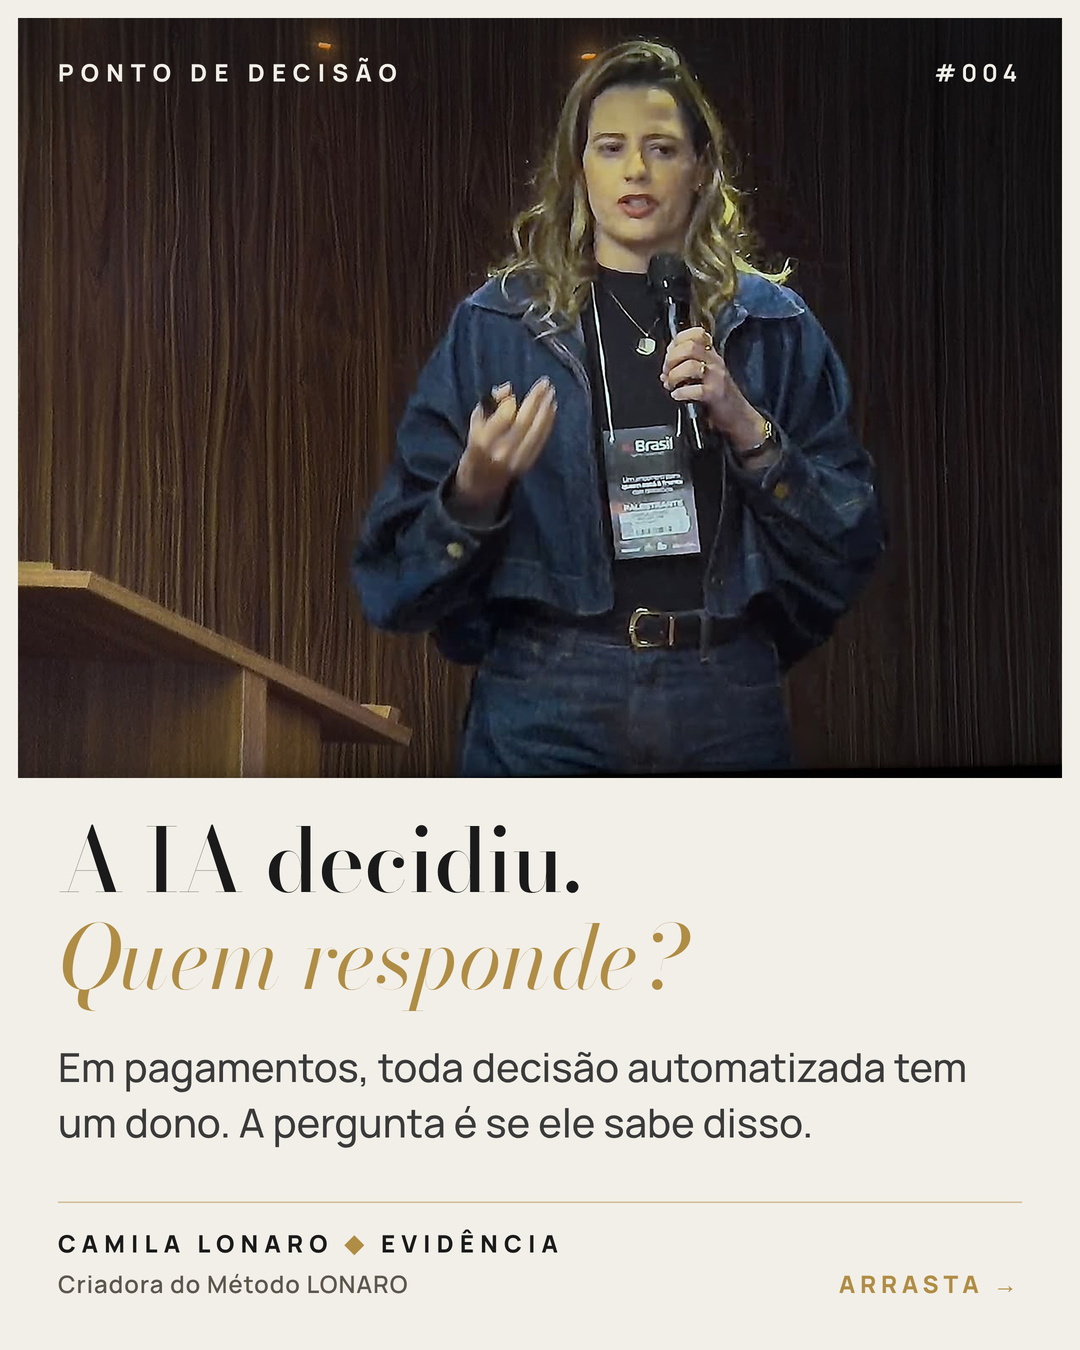
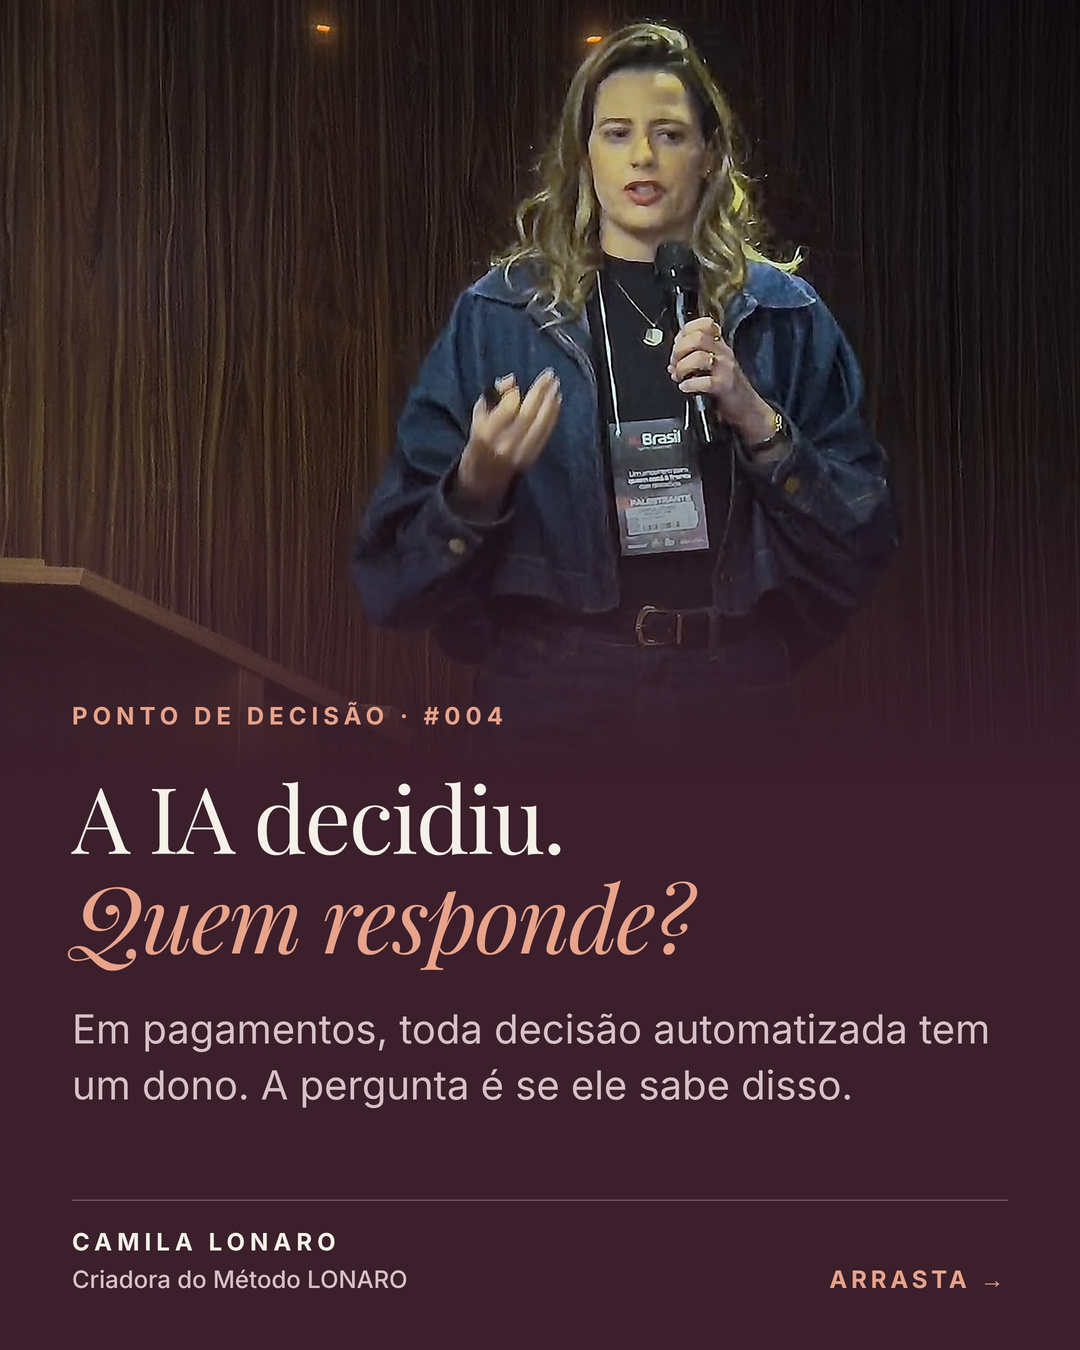
Redo carousel 004 in the wine and ivory brand palette
Follow the tones of the inovabra 2026 talk: wine, ivory, coral and
peach with Playfair Display and Inter. Record the palette in the
images README and add the matching template.

Claude-Session: https://claude.ai/code/session_0187BAq4fKzDRMCCEJqtPjF1

diff --git a/images/_templates/marca-vinho-marfim.html b/images/_templates/marca-vinho-marfim.html
@@ -1,0 +1,30 @@
+<!doctype html><html><head><meta charset="utf-8">
+<link rel="stylesheet" href="https://fonts.googleapis.com/css2?family=Playfair+Display:ital,wght@0,400..900;1,400..900&family=Inter:wght@400..800&display=swap">
+<style>
+:root{--wine:#3B1F2B;--ivory:#F5F1E9;--coral:#A95443;--peach:#E8A38B}
+.dark{--paper:var(--wine);--ink:var(--ivory);--accent:var(--peach);--secondary:#D7C2C9;--line:#72525F}
+.light{--paper:var(--ivory);--ink:var(--wine);--accent:var(--coral);--secondary:#705760;--line:#D9CAC8}
+*{margin:0;padding:0;box-sizing:border-box}
+html,body{width:1080px;height:1350px;overflow:hidden}
+body{position:relative;font-family:"Inter",sans-serif;background:var(--paper);color:var(--ink);-webkit-font-smoothing:antialiased}
+.ph{position:absolute;left:0;right:0;top:0;height:__PH__px;background-image:url("__IMG__");background-size:cover;background-position:__POS__}
+.dark .ph::after{content:"";position:absolute;left:0;right:0;bottom:-1px;height:46%;background:linear-gradient(180deg,rgba(59,31,43,0) 0%,rgba(59,31,43,.65) 62%,#3B1F2B 100%)}
+.cap{position:absolute;left:72px;top:calc(__PH__px + 26px);font-size:24px;letter-spacing:.16em;text-transform:uppercase;font-weight:600;color:var(--secondary)}
+.card{position:absolute;left:72px;right:72px;top:__CT__px}
+.eyebrow{font-size:24px;font-weight:700;letter-spacing:.21em;line-height:1.35;text-transform:uppercase;color:var(--accent);margin-bottom:34px}
+h1{font-family:"Playfair Display",serif;font-weight:400;font-size:__H1__;line-height:1.08;letter-spacing:-.025em;text-wrap:balance}
+h1 em{font-style:italic;font-weight:400;color:var(--accent)}
+.sub{margin-top:36px;font-size:40px;line-height:1.4;color:var(--secondary);font-weight:400;text-wrap:pretty}
+.list{margin-top:48px;list-style:none;counter-reset:q}
+.list li{counter-increment:q;display:flex;gap:34px;align-items:baseline;font-size:42px;line-height:1.25;font-weight:500;padding:22px 0;border-top:1.5px solid var(--line)}
+.list li:last-child{border-bottom:1.5px solid var(--line)}
+.list li::before{content:counter(q,decimal-leading-zero);font-family:"Playfair Display",serif;font-style:italic;font-size:46px;color:var(--accent);min-width:62px}
+.foot{position:absolute;left:72px;right:72px;bottom:56px;display:flex;justify-content:space-between;align-items:flex-end;border-top:1.5px solid var(--line);padding-top:26px}
+.who{font-size:24px;letter-spacing:.21em;text-transform:uppercase;font-weight:700;color:var(--ink)}
+.cred{font-size:24px;color:var(--secondary);margin-top:8px;font-weight:500}
+.right{font-size:24px;letter-spacing:.16em;text-transform:uppercase;color:var(--accent);font-weight:700;white-space:nowrap}
+</style></head><body class="__MODE__">
+__BG__
+<div class="card">__CARD__</div>
+<div class="foot"><div><div class="who">Camila Lonaro</div><div class="cred">Criadora do Método LONARO</div></div><div class="right">__RIGHT__</div></div>
+</body></html>

diff --git a/images/README.md b/images/README.md
@@ -1,5 +1,22 @@
 # Artes do Instagram @camilalonaro
 
+## Marca (oficial desde 27/11/2026)
+
+Segue os tons da apresentação inovabra 2026. É a referência para todo post novo.
+
+| Modo | Fundo | Texto | Destaque (itálico) | Secundário | Linhas |
+|---|---|---|---|---|---|
+| **Escuro** | vinho `#3B1F2B` | marfim `#F5F1E9` | pêssego `#E8A38B` | `#D7C2C9` | `#72525F` |
+| **Claro** | marfim `#F5F1E9` | vinho `#3B1F2B` | coral `#A95443` | `#705760` | `#D9CAC8` |
+
+Tipografia: Playfair Display 400 (frases, itálico no destaque) e Inter (rótulos e texto corrido). Rótulos em caixa alta, 24 px, espaçamento .21em, na cor de destaque.
+
+Carrosséis alternam escuro e claro. Template: `_templates/marca-vinho-marfim.html`.
+
+Regras: capa e último slide com foto real da Camila (de preferência de palco ou evento) e a credencial "Criadora do Método LONARO". Texto corrido nunca abaixo de 40 px. Uma ideia por slide. Exportar 1080×1350 JPEG q95, renderizado em 2× e reduzido com LANCZOS. Fotos com outras pessoas só com consentimento.
+
+## Modos antigos (não usar em post novo)
+
 Sistema de dois modos, unidos pelo ouro:
 
 | Modo | Uso | Paleta | Tipografia |
